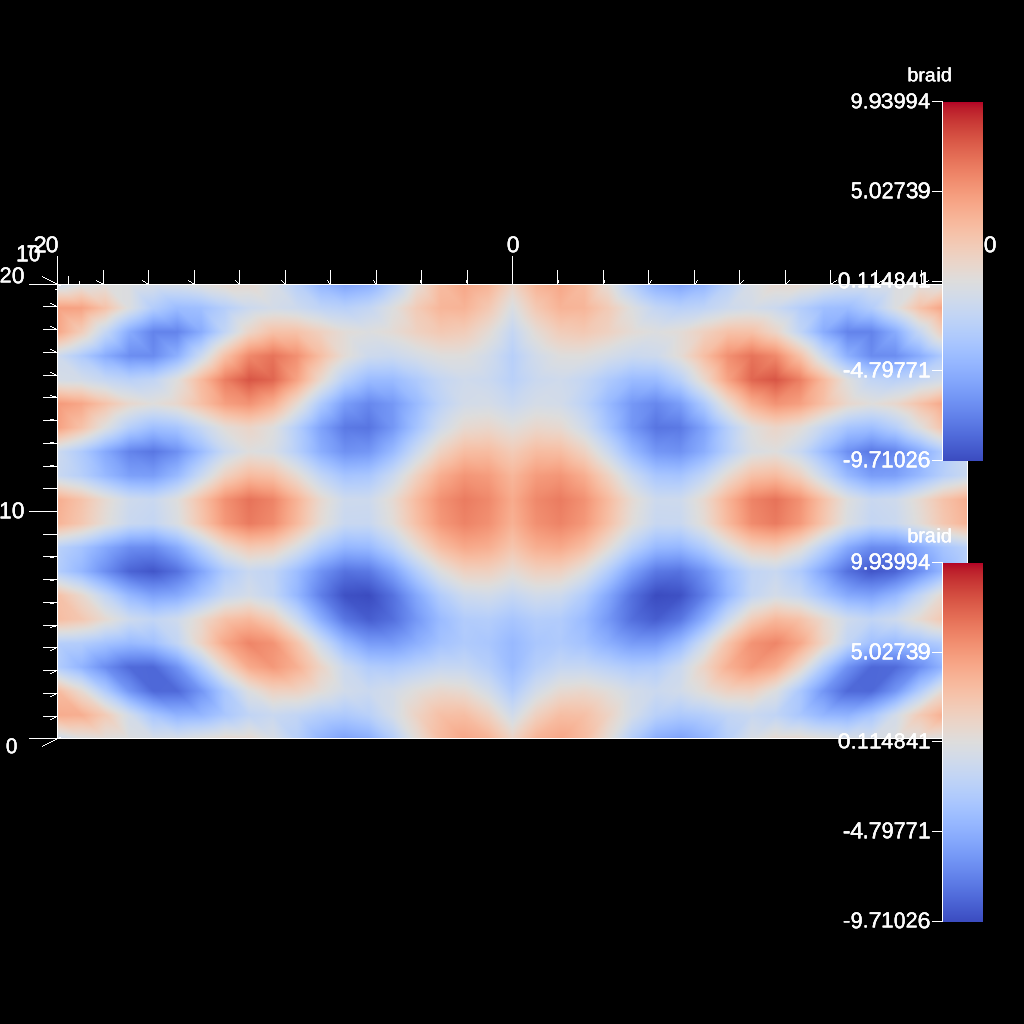
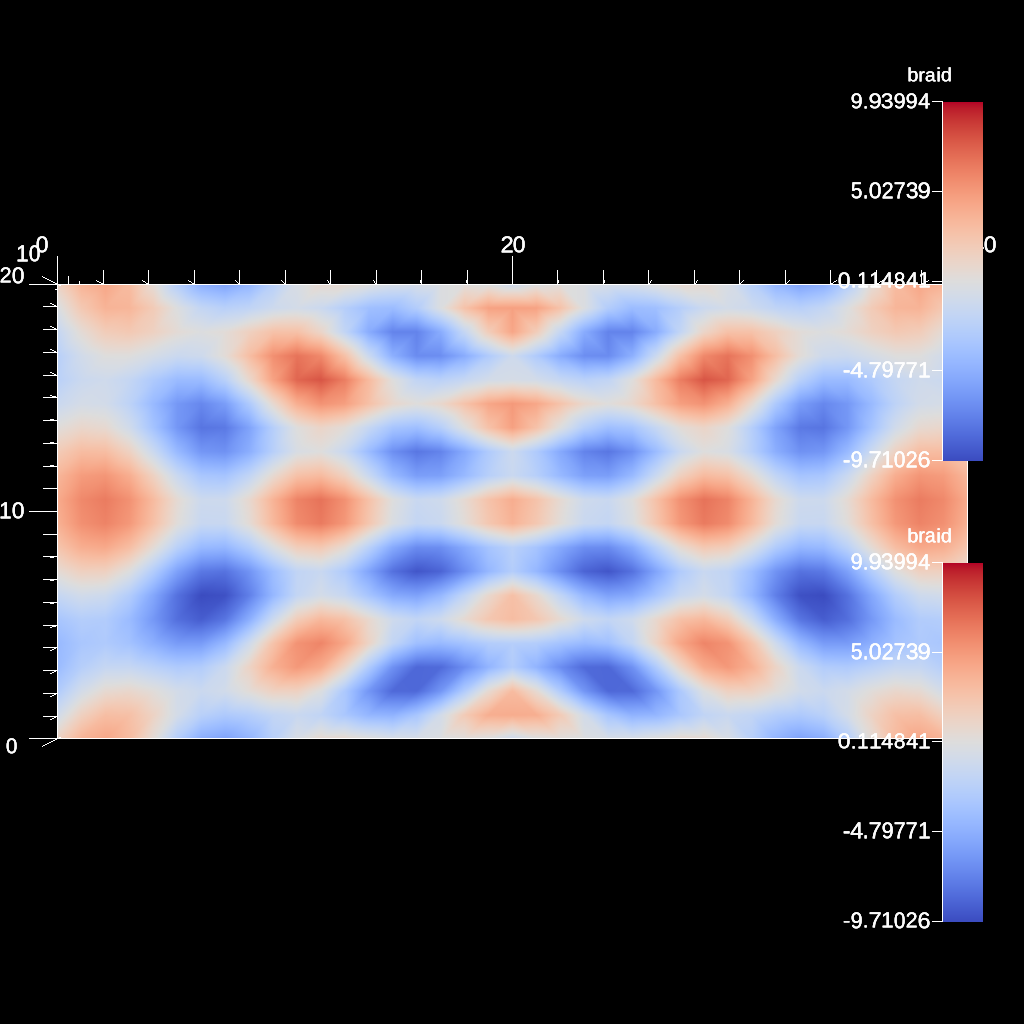
update docs

Changed region(s): [[0.0312, 0.2812, 0.9688, 0.7188], [0.4688, 0.2188, 0.5312, 0.25], [0.0312, 0.2188, 0.0625, 0.25]]

diff --git a/src/tests/ascent/t_ascent_transform.cpp b/src/tests/ascent/t_ascent_transform.cpp
@@ -715,7 +715,7 @@ TEST(ascent_translate, test_reflect_x_max)
     // filter knobs
     pipelines["pl1/f1/type"] = "transform";
     pipelines["pl1/f1/params/reflect/normal/x"]= 1.0;
-    //pipelines["pl1/f1/params/reflect/point/x"]= "max";
+    pipelines["pl1/f1/params/reflect/point/x"]= "max";
     pipelines["pl1/pipeline"] = "pl0";
 
 

diff --git a/src/docs/sphinx/Actions/Examples.rst b/src/docs/sphinx/Actions/Examples.rst
@@ -946,7 +946,7 @@ Resulting image:
 
 .. image:: examples/tout_transform_matrix_000100.png
 
-An example of using the transform filter to reflect over a specified point 
+An example of using the transform filter to reflect over a specified normal
 --------------------------------------------------------------------------------------------------
 
 YAML actions:
@@ -957,7 +957,7 @@ Resulting image:
 
 .. image:: examples/tout_transform_reflect_arb_000100.png
 
-An example of using the transform filter to reflect over a point along the x axis
+An example of using the transform filter to reflect over the x axis
 --------------------------------------------------------------------------------------------------
 
 YAML actions:
@@ -990,7 +990,7 @@ Resulting image:
 
 .. image:: examples/tout_transform_reflect_y_min_000100.png
 
-An example of using the transform filter to rotate around a specified point 
+An example of using the transform filter to rotate around a specified normal 
 --------------------------------------------------------------------------------------------------
 
 YAML actions:
@@ -1000,6 +1000,28 @@ YAML actions:
 Resulting image:
 
 .. image:: examples/tout_transform_rotate_arb_000100.png
+
+An example of using the transform filter to reflect over a specified point and normal 
+--------------------------------------------------------------------------------------------------
+
+YAML actions:
+
+.. literalinclude:: examples/tout_transform_reflect_over_point_000100.yaml
+
+Resulting image:
+
+.. image:: examples/tout_transform_reflect_over_point_000100.png
+
+An example of using the transform filter to reflect a 2D slice over the y axis minimum
+--------------------------------------------------------------------------------------------------
+
+YAML actions:
+
+.. literalinclude:: examples/tout_transform_reflect_y_min_2d_000100.yaml
+
+Resulting image:
+
+.. image:: examples/tout_transform_reflect_y_min_2d_000100.png
 
 An example of using the transform filter to rotate around a point on the x axis 
 --------------------------------------------------------------------------------------------------

diff --git a/CHANGELOG.md b/CHANGELOG.md
@@ -16,7 +16,7 @@ and this project aspires to adhere to [Semantic Versioning](https://semver.org/s
 - mfem@4.8
 
 ### Added
-- Added the abilit to specify "min/max" as the x/y/z dims for the reflect transform filter
+- Added the ability to specify "min/max" as the x/y/z point for the reflect transform filter
 - Added Uniform Grid filter as a parameter of the Sample Filter
 - Added ability to define cameras for rendering using visit camera view parameters
 - Added ability to do tiled rendering, where tiles covering an image are rendered seperately to form the final image. The default is to do tiled rendering with 1024 by 1024 tiles.

diff --git a/src/docs/sphinx/Actions/Pipelines.rst b/src/docs/sphinx/Actions/Pipelines.rst
@@ -637,7 +637,10 @@ Reflect Example:
           type: "transform"
           params:
             reflect:
-              x: 1.0 #also accepts the strings "min" or "max"
+              normal:  # a normal is required for reflection
+                x: 1.0 # (x,y,z) default is (0,0,0)
+              point:
+                x: "min" #also accepts doubles; (x,y,z) default is (0,0,0)
 
 Rotate Example:
 
